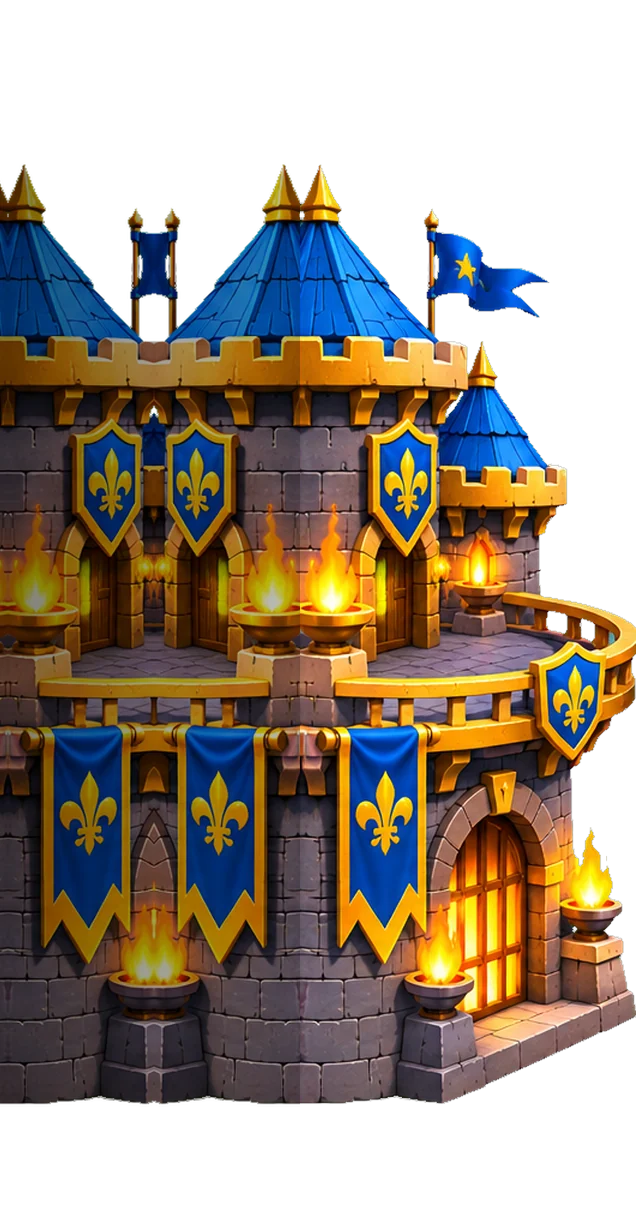
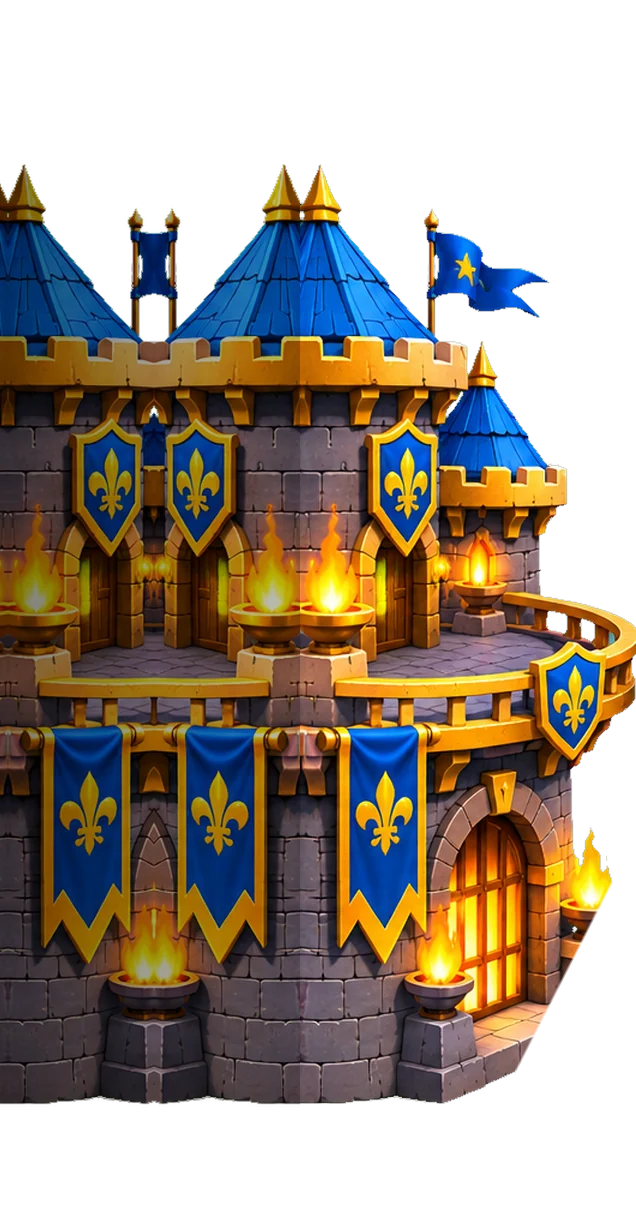
WIP castles: lower front cut along the lane diagonal [skip ci]
Claude-Session: https://claude.ai/code/session_019FHBnxKyTVWzaJqkftQpoS

Changed region(s): [[0.8066, 0.7111, 1.0, 0.8657]]

diff --git a/web/js/castles.js b/web/js/castles.js
@@ -1,3 +1,3 @@
 // gerado por tools/extract-castles5.py
 window.BB = window.BB || {};
-BB.CASTLES_ART = {"royal_fortress": {"w": 636, "h": 1229, "x": -300, "y": -376, "foot": [444, 668], "rail": [[330, 674], [444, 682], [540, 672], [578, 638], [614, 619], [641, 614], [641, 744], [330, 744]], "gate": [498, 932], "front": [334, 299, 326], "src": "img/castles/royal_fortress.webp"}, "glacial_fortress": {"w": 626, "h": 1229, "x": -300, "y": -376, "foot": [444, 668], "rail": [[330, 674], [444, 682], [540, 672], [578, 638], [614, 619], [641, 614], [641, 744], [330, 744]], "gate": [498, 932], "front": [322, 287, 312], "src": "img/castles/glacial_fortress.webp"}, "draconic_castle": {"w": 636, "h": 1229, "x": -300, "y": -376, "foot": [444, 668], "rail": [[330, 674], [444, 682], [540, 672], [578, 638], [614, 619], [641, 614], [641, 744], [330, 744]], "gate": [498, 932], "front": [333, 298, 323], "src": "img/castles/draconic_castle.webp"}, "sylvan_sanctuary": {"w": 634, "h": 1229, "x": -300, "y": -376, "foot": [444, 668], "rail": [[330, 674], [444, 682], [540, 672], [578, 638], [614, 619], [641, 614], [641, 744], [330, 744]], "gate": [498, 932], "front": [332, 296, 321], "src": "img/castles/sylvan_sanctuary.webp"}, "shadow_necropolis": {"w": 641, "h": 1229, "x": -300, "y": -376, "foot": [444, 668], "rail": [[330, 674], [444, 682], [540, 672], [578, 638], [614, 619], [641, 614], [641, 744], [330, 744]], "gate": [498, 932], "front": [339, 303, 327], "src": "img/castles/shadow_necropolis.webp"}};
+BB.CASTLES_ART = {"royal_fortress": {"w": 636, "h": 1229, "x": -300, "y": -376, "foot": [444, 668], "rail": [[330, 674], [444, 682], [540, 672], [578, 638], [614, 619], [641, 614], [641, 744], [330, 744]], "gate": [498, 932], "front": [334, 299, 240], "src": "img/castles/royal_fortress.webp"}, "glacial_fortress": {"w": 626, "h": 1229, "x": -300, "y": -376, "foot": [444, 668], "rail": [[330, 674], [444, 682], [540, 672], [578, 638], [614, 619], [641, 614], [641, 744], [330, 744]], "gate": [498, 932], "front": [322, 287, 240], "src": "img/castles/glacial_fortress.webp"}, "draconic_castle": {"w": 636, "h": 1229, "x": -300, "y": -376, "foot": [444, 668], "rail": [[330, 674], [444, 682], [540, 672], [578, 638], [614, 619], [641, 614], [641, 744], [330, 744]], "gate": [498, 932], "front": [333, 298, 240], "src": "img/castles/draconic_castle.webp"}, "sylvan_sanctuary": {"w": 634, "h": 1229, "x": -300, "y": -376, "foot": [444, 668], "rail": [[330, 674], [444, 682], [540, 672], [578, 638], [614, 619], [641, 614], [641, 744], [330, 744]], "gate": [498, 932], "front": [332, 296, 240], "src": "img/castles/sylvan_sanctuary.webp"}, "shadow_necropolis": {"w": 641, "h": 1229, "x": -300, "y": -376, "foot": [444, 668], "rail": [[330, 674], [444, 682], [540, 672], [578, 638], [614, 619], [641, 614], [641, 744], [330, 744]], "gate": [498, 932], "front": [339, 303, 240], "src": "img/castles/shadow_necropolis.webp"}};

diff --git a/tools/extract-castles5.py b/tools/extract-castles5.py
@@ -18,6 +18,8 @@ BARON_Y = 292                  # altura do pé do Barão na arena
 # parapeito da frente da sacada (px da coluna, y absoluto): desenhado por cima do Barão
 RAIL = [(25, 562), (120, 568), (200, 560), (232, 532), (262, 516), (284, 512), (284, 620), (25, 620)]
 LANES_Y = (322, 472, 652)
+# corte diagonal da frente (arena): passa em (x, y) com inclinação da borda das rotas; só abaixo de CUT_FROM
+CUT, CUT_SLOPE, CUT_FROM = (330, 472), 0.5095, 400
 GATE = (165, 777)              # centro do portão (px da coluna, y absoluto): impactos no castelo
 
 
@@ -68,8 +70,17 @@ def main():
         e[:, :EXT, :3] *= shade
         ext = Image.fromarray(e.clip(0, 255).astype(np.uint8))
         ext.paste(im, (EXT, 0), im)
-        ext.save(os.path.join(OUT, cid + '.webp'), 'WEBP', quality=86, method=6)
         y0 = round(oy)
+        # abaixo da sacada a frente segue a diagonal das rotas (perspectiva da arena): nada entra na rota de baixo
+        e = np.asarray(ext).copy()
+        ys, xs = np.mgrid[0:e.shape[0], 0:e.shape[1]]
+        ay, axx = ys + y0, xs - EXT
+        lim = CUT[0] - (ay - CUT[1]) * CUT_SLOPE
+        cut = np.clip((lim - axx) / 3.0, 0, 1)  # borda suave de 3 px
+        cut = np.where(ay < CUT_FROM, 1, cut)
+        e[..., 3] = (e[..., 3] * cut).astype(np.uint8)
+        ext = Image.fromarray(e)
+        ext.save(os.path.join(OUT, cid + '.webp'), 'WEBP', quality=86, method=6)
         A = np.asarray(ext)[..., 3]
         front = []
         for ly in LANES_Y:
